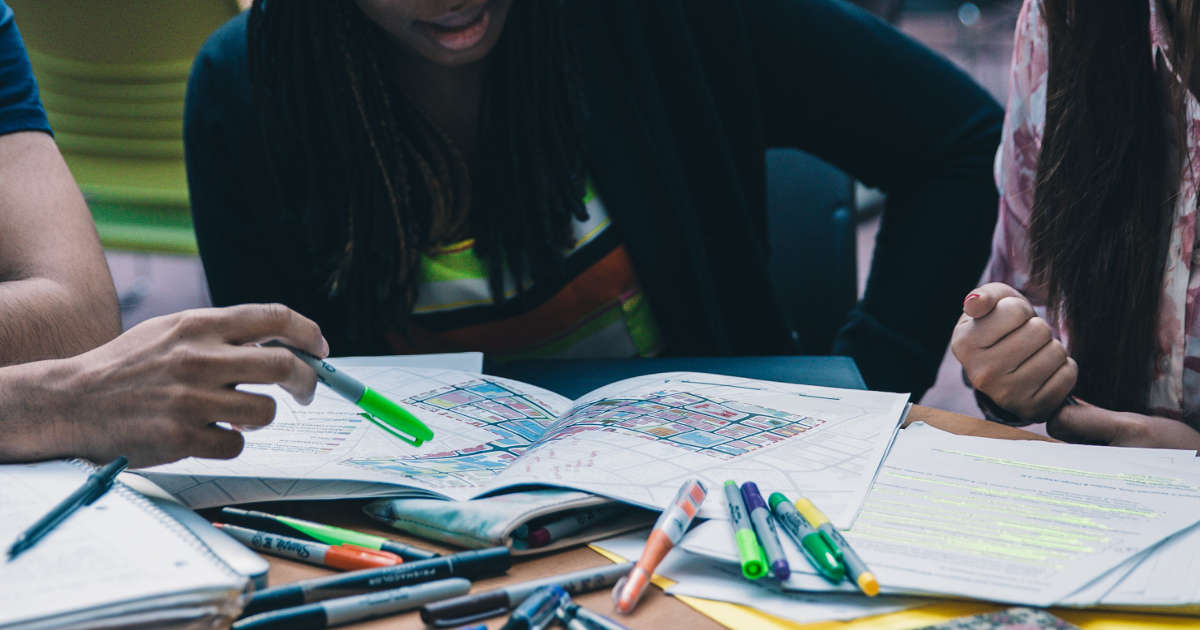
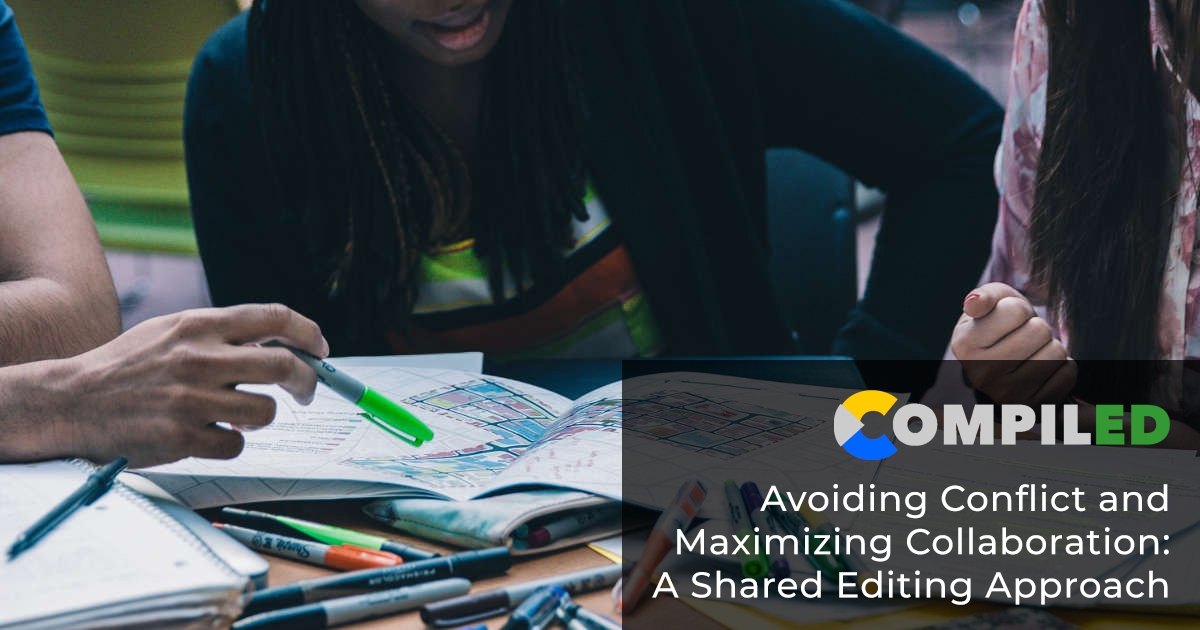
Image preparation, and small formatting edits, Amazon link change to latest edition

Changed region(s): [[0.4933, 0.573, 1.0, 1.0]]

diff --git a/content/articles/shared-editing.md b/content/articles/shared-editing.md
@@ -1,6 +1,6 @@
 ---
-title: "Avoiding conflict and maximizing collaboration: A shared editing approach"
-date: 2020-12-29
+title: "Avoiding Conflict and Maximizing Collaboration: A Shared Editing Approach"
+date: 2021-02-12
 type: "post"
 authors: ["dreher"]
 tags: ["django", "javascript", "object model", "collaboration"]
@@ -15,15 +15,15 @@ thumbnail: "thumbnail-shared-editing.jpg"
 socmediaimg: "socmediaimg-shared-editing.jpg"
 hiliteimg: "poster-shared-editing.jpg"
 poster_sourceurl: "https://burst.shopify.com/photos/study-group"
-poster_source: "Photo by Brodie Vissers on Burst"
+poster_source: "Brodie Vissers on Burst"
 bookendanimal: "feather-alt"
 ---
-
 ## The Kickoff Meeting
-A typical application kick-off meeting at the [Center for Teaching and
-Learning](https://ctl.columbia.edu) includes a big-picture discussion on
-desired functionality and features. A recurring wishlist item is the desire
-to foster collaboration among students within the online space.
+A typical application kick-off meeting at the
+[Center for Teaching and Learning](https://ctl.columbia.edu)
+includes a big-picture discussion on desired functionality and features. A
+recurring wishlist item is the desire to foster collaboration among students
+within the online space.
 
 This collaborative learning wish is most frequently expressed by describing
 Google Docs functionality. The collaborative features of Google
@@ -34,8 +34,10 @@ implementations often feel intimidating to our small project teams.
 ## Learning a Lesson
 DESIGN Online is an interactive curriculum builder that guides education
 students to construct effective and engaging nutrition-related learning
-experiences. The application models the [DESIGN Procedure](https://www.amazon.com/Nutrition-Education-Linking-Research-Practice/dp/1284078000),
-the brainchild of [Professor Isobel Contento](https://www.tc.columbia.edu/faculty/irc6/) with the support of her colleague
+experiences. The application models the
+[DESIGN Procedure](https://www.amazon.com/Nutrition-Education-Linking-Research-Practice-dp-1284168921/dp/1284168921/),
+the brainchild of [Professor Isobel Contento](https://www.tc.columbia.edu/faculty/irc6/)
+with the support of her colleague
 [Associate Research Professor Pam Koch](https://www.tc.columbia.edu/faculty/pak14/).
 
 At the kickoff meeting, Profs. Contento and Koch both felt strongly that
@@ -44,11 +46,9 @@ assigned students to work together on lesson plans. They understood and
 valued the benefits of cooperative work. Our implementation plan included this
 feature as a high priority.
 
-## 
-
 A DESIGN Online lesson plan is composed of a set of models. The primary model
 captures the basics, like the title and authors. Submodels capture more complex
-structured data such as the student's theory model and planning matrix.
+structured data such as the student’s theory model and planning matrix.
 
 An initial implementation approach was to allow synchronous editing, and then
 detect and reconcile changes at save time. The complexity of the object model
@@ -56,10 +56,11 @@ made this a daunting task. Data loss was a definite possibility with this
 approach. We could not tolerate lost or overwritten student work.
 
 I decided instead to go with a read-only lock approach. A lesson plan author
-acquires the write lock when they access the lesson plan's editable views. A
+acquires the write lock when they access the lesson plan’s editable views. A
 co-author can then interact with the lesson plan in read-only mode.
 
 The lock object records the current editor and the last access time.
+
 ```
 class LessonPlanLock(models.Model):
     editor = models.ForeignKey(
@@ -72,44 +73,46 @@ class LessonPlanLock(models.Model):
 ```
 
 The access time is updated on every GET or POST request generated by the current
-editor. This approach does break the idempotency of the GET request. I'm
-comfortable with this noncompliance as only the "metadata" lock object is
+editor. This approach does break the idempotency of the GET request. I’m
+comfortable with this noncompliance as only the “metadata” lock object is
 modified and does not cause side-effects. The base LessonPlan instance and its
 submodel instances are unchanged.
 
 The current editor keeps the lock while active. A co-author can acquire the lock
 after 20 minutes of inactivity or if the current editor explicitly releases the
-lock. An editor sees an error message if they've lost the lock through inactivity
+lock. An editor sees an error message if they’ve lost the lock through inactivity
 when an update is attempted.
 
 ## Missed a Spot
 
 This system has worked well for the past year. But, a student team found a
-corner case in their work this fall. Here's the scenario.
+corner case in their work this fall. Here’s the scenario.
 
-<strong>Student A</strong> edits the lesson plan, then walks away from their
+__Student A__ edits the lesson plan, then walks away from their
 computer, leaving the lesson plan open.
 
-<strong>Student B</strong> views the lesson plan an hour later. This student
+__Student B__ views the lesson plan an hour later. This student
 acquires the edit lock as Student A has been inactive for more than 20 minutes.
 
-<strong>Student A</strong> returns to their open lesson plan in the morning.
+__Student A__ returns to their open lesson plan in the morning.
 They have an older writable version on their screen. The student acquires the
 edit lock as Student B has been inactive for more than 20 minutes. The student
-merrily makes changes, and on save, overwrites Student B's work.
+merrily makes changes, and on save, overwrites Student B’s work.
 
 Arg!
 
 ## Timeout &amp; Versioning
 
-Luckily, I integrated [django-reversion](https://django-reversion.readthedocs.io/en/stable/)
+Luckily, I integrated
+[django-reversion](https://django-reversion.readthedocs.io/en/stable/)
 on the LessonPlan model and its related models. I was easily able to rollback
-the changes Student A made and recover Student B's work.
+the changes Student A made and recover Student B’s work.
 
 The first and quickly implemented fix was to log out a user after 20-minutes
-inactivity. I used the [django-session-security](https://github.com/yourlabs/django-session-security)
+inactivity. I used the
+[django-session-security](https://github.com/yourlabs/django-session-security)
 library to achieve this approach. However, 20 minutes is relatively short for
-an auto-logout. And, I get *really* annoyed when I'm summarily logged out of
+an auto-logout. And, I get *really* annoyed when I’m summarily logged out of
 applications.
 
 A better solution, I thought, could be found with
@@ -126,4 +129,4 @@ them to make a copy and asking them to refresh their browser to get the latest
 plan version. Problem solved.
 
 For more on how we built DESIGN Online, see my previous blog post
-[Interacting with Nutrition Theory](https://compiled.ctl.columbia.edu/articles/interactive-theory-model/).
+[Interacting with Nutrition Theory](/articles/interactive-theory-model/).
